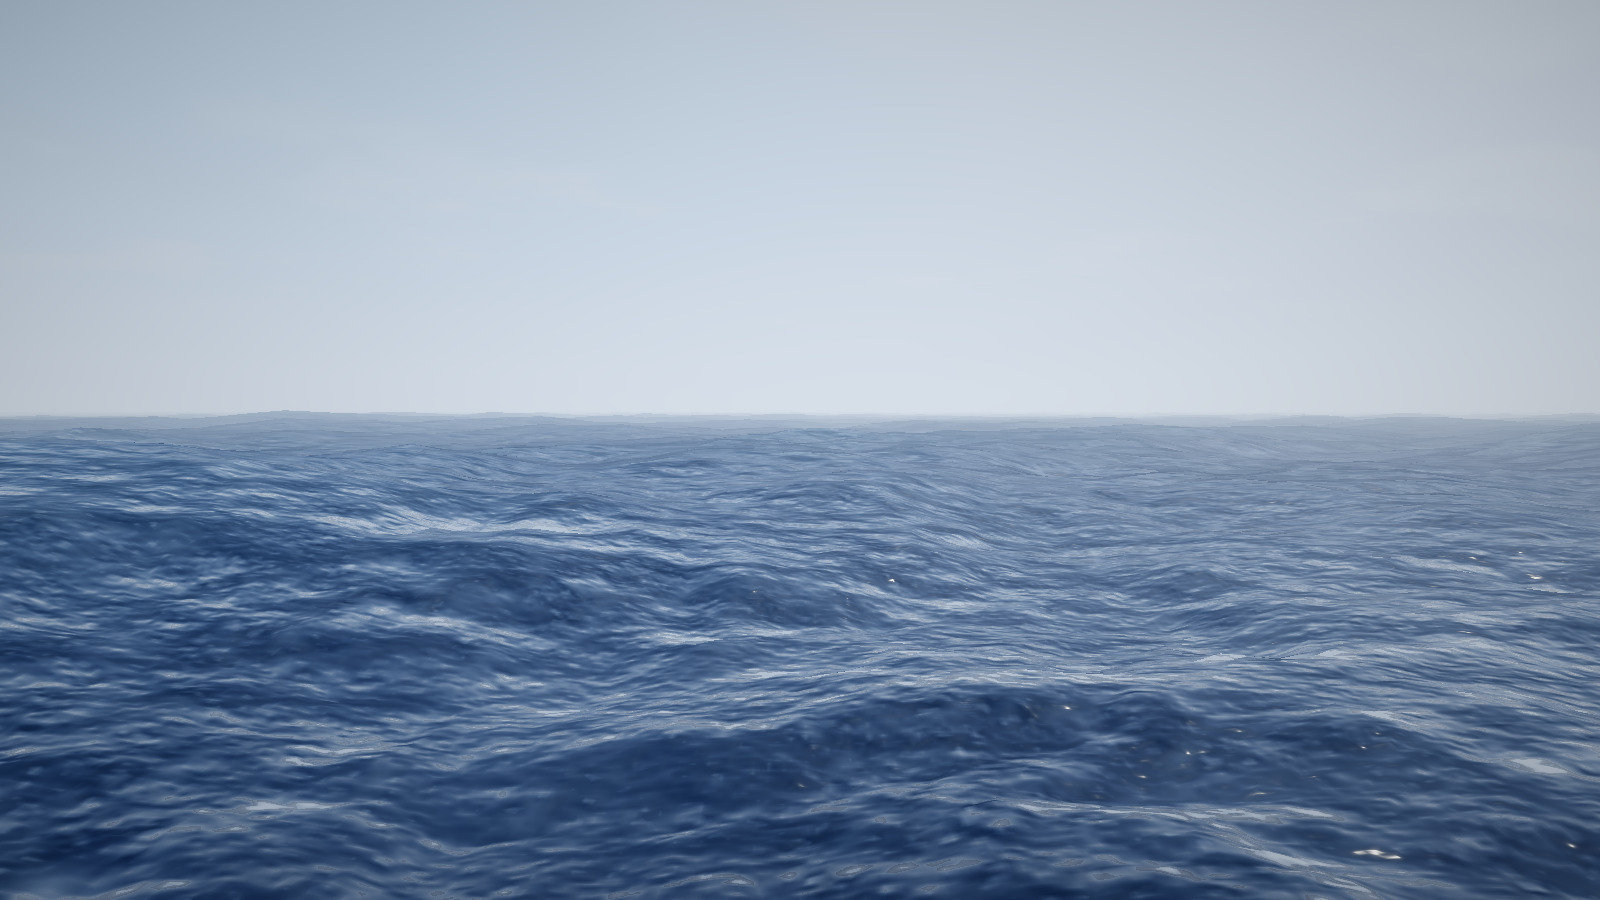
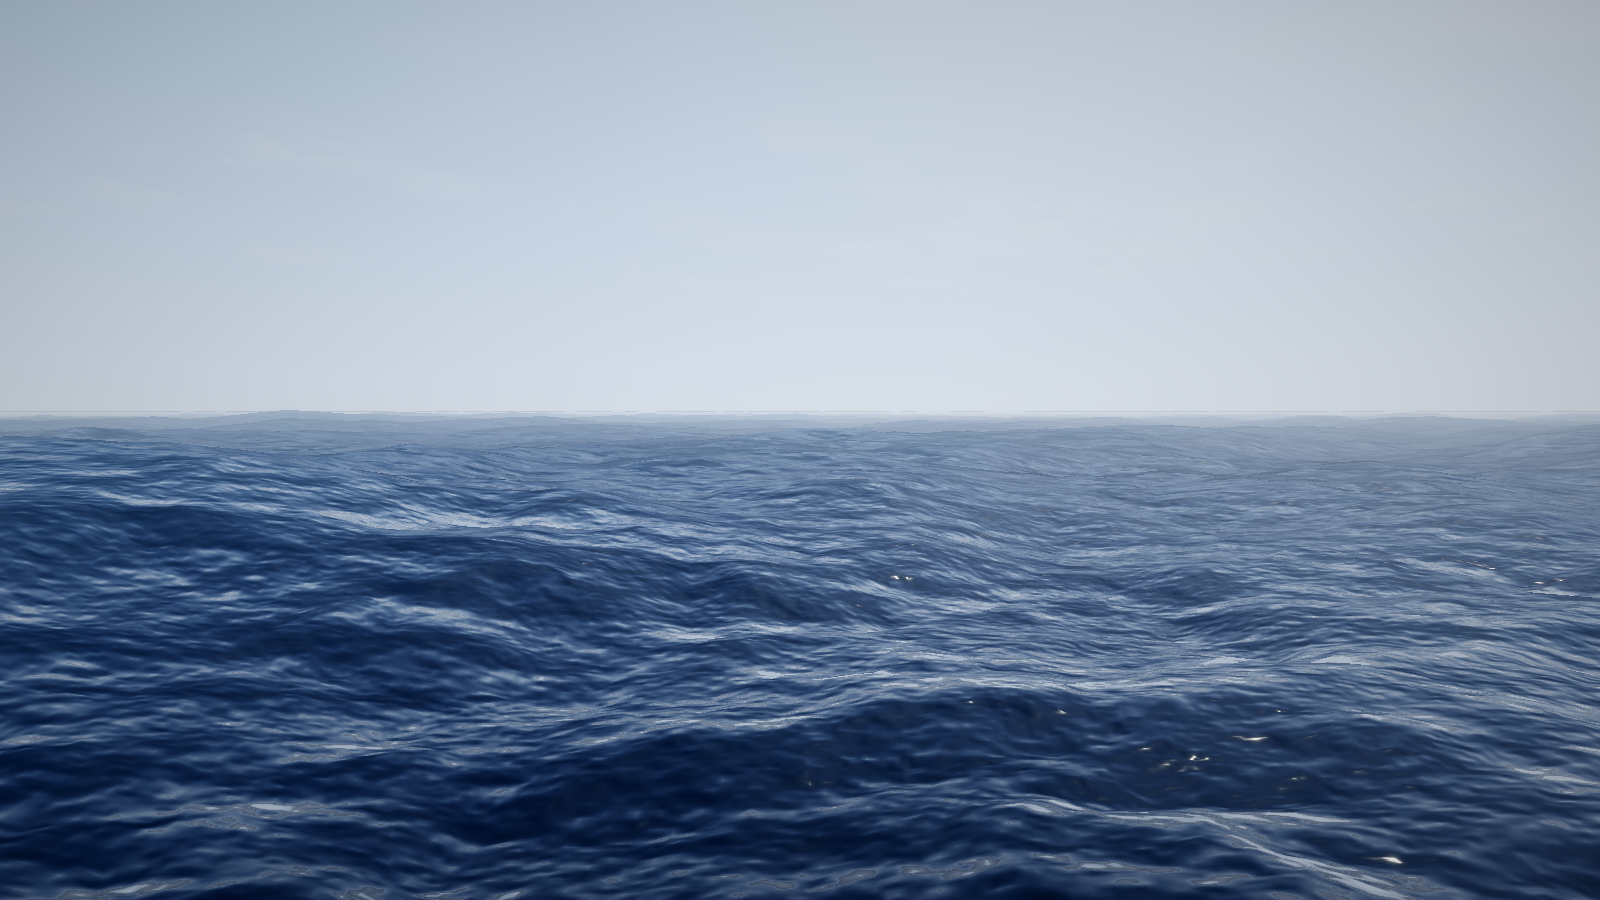
Make foam read as foam rather than white paint
The previous fix made foam visible by brute force (gain 8.0), which
produced uniform white regions with soft airbrushed edges. Three changes:

POROSITY. Real whitecaps are a broken film full of holes and thinning
margins. A three-octave world-space noise erodes the mask so dense centres
survive and thin edges break into islands. Without breakup the mask is
smooth and reads as paint.

HARD EDGE. The eroded mask is smoothstepped rather than used raw, so foam
has a defined boundary instead of fading out over metres.

SUPPRESSION. Foam is a rough diffuse film, so it now extinguishes the
specular highlight and the sharp sky reflection beneath it. Compositing
foam over an untouched glossy surface is what made it look like white
gloss painted on glass — arguably the single biggest tell.

Thin margins also shade greyer and wetter than dense centres.

Gain drops 8.0 -> 7.5 now that the mask is shaped rather than blunt.

98 unit tests, 33 GPU tests.

Claude-Session: https://claude.ai/code/session_0158WT9LTU7e5dt1KetDGE7N

Changed region(s): [[0.0, 0.4667, 1.0, 1.0]]

diff --git a/js/ocean/shaders/oceanFragment.js b/js/ocean/shaders/oceanFragment.js
@@ -58,6 +58,19 @@ in float vFoam;
 
 out vec4 outColor;
 
+/**
+ * Multi-scale porosity for foam breakup.
+ *
+ * Real whitecaps are a broken film full of holes and thinning edges, not a
+ * painted region. Without this the mask is smooth and reads as white paint.
+ */
+float foamPorosity(vec2 p, float t) {
+  float n1 = atnoise(p * 0.6 + vec2(t * 0.02, t * 0.013));
+  float n2 = atnoise(p * 2.1 - vec2(t * 0.035, t * 0.02));
+  float n3 = atnoise(p * 5.7 + vec2(t * 0.06, t * 0.04));
+  return n1 * 0.5 + n2 * 0.33 + n3 * 0.17;
+}
+
 /** Mip level implied by this pixel's footprint in a cascade's texture. */
 float cascadeLod(vec2 uv) {
   vec2 dx = dFdx(uv) * uTexSize;
@@ -144,6 +157,18 @@ void main() {
   float sss = crestScatter(V, L, N, vWaveHeight, uWaveHeightScale) * uSSSStrength;
   body += uSSSColor * uSunColor * sss;
 
+  // ---- Foam coverage ----
+  // Computed before compositing: foam is a rough diffuse film, so it has to
+  // extinguish the specular and the sharp sky reflection underneath it. Painted
+  // over the top instead, it reads as white gloss on glass.
+  float trail = texture(uFoamTrail, fract(vWorldXZ / uFoamWorld)).r * uFoamTrailStrength;
+  float rawFoam = max(foam * uFoamAmount, trail);
+  float porosity = foamPorosity(vWorldXZ, uTime);
+  // Erode by the porosity field, then harden the edge. Dense centres survive,
+  // thin margins break into islands.
+  float foamMask = clamp((rawFoam * (0.5 + 0.95 * porosity) - 0.10) * 2.1, 0.0, 1.0);
+  foamMask = smoothstep(0.02, 0.6, foamMask);
+
   // ---- Combine body and reflection ----
   // multiScatterCompensation already integrates Fresnel over the environment
   // (it is the split-sum F0*scale + bias term), so the reflection is ADDED and
@@ -152,22 +177,17 @@ void main() {
   // than an order of magnitude — which is what made the water read as painted
   // blue instead of sky-dominated.
   float reflectance = clamp(dot(msComp, vec3(0.2126, 0.7152, 0.0722)), 0.0, 1.0);
-  vec3 color = body * (1.0 - reflectance) + reflection;
-  color += specular;
+  float clearWater = 1.0 - foamMask;
+  vec3 color = body * (1.0 - reflectance) + reflection * clearWater;
+  color += specular * clearWater;
 
-  // ---- Foam ----
-  float foamMask;
-  float trail = texture(uFoamTrail, fract(vWorldXZ / uFoamWorld)).r * uFoamTrailStrength;
-  foamMask = clamp(max(foam * uFoamAmount, trail), 0.0, 1.0);
+  // ---- Foam shading ----
   if (foamMask > 0.001) {
-    // Foam is a rough dielectric, not a white blend: it takes sun and sky
-    // like any other surface, which is why real whitecaps have shape.
-    // Foam is a near-Lambertian reflector of the whole sky hemisphere, not of
-    // a single zenith sample. Under-integrating that irradiance leaves
-    // whitecaps barely brighter than the water they sit on, which is why a
-    // storm sea rendered with no visible breaking.
-    vec3 foamAlbedo = vec3(0.88, 0.92, 0.95);
-    vec3 foamLit = foamAlbedo * (ambientSky * 1.7 + uSunColor * (NoL * 0.9 + 0.35));
+    // Near-Lambertian reflector of the whole sky hemisphere. Thin margins are
+    // greyer and wetter than dense centres, which is most of what separates
+    // foam from paint.
+    vec3 foamAlbedo = mix(vec3(0.62, 0.68, 0.73), vec3(0.94, 0.96, 0.97), porosity);
+    vec3 foamLit = foamAlbedo * (ambientSky * 1.45 + uSunColor * (NoL * 0.8 + 0.3));
     color = mix(color, foamLit, foamMask);
   }
 

diff --git a/js/ocean/oceanSimulation.js b/js/ocean/oceanSimulation.js
@@ -37,7 +37,7 @@ const DEFAULTS = {
   // max(0, threshold - J) is a small number even under strong folding — a
   // Jacobian of 0.7 gives 0.22. At a gain of 1.4 that is a 30% white blend at
   // its very peak and invisible everywhere else.
-  foamGain: 8.0,
+  foamGain: 7.5,
   foamDecayRate: 0.35,
   amplitude: 1,
 };
